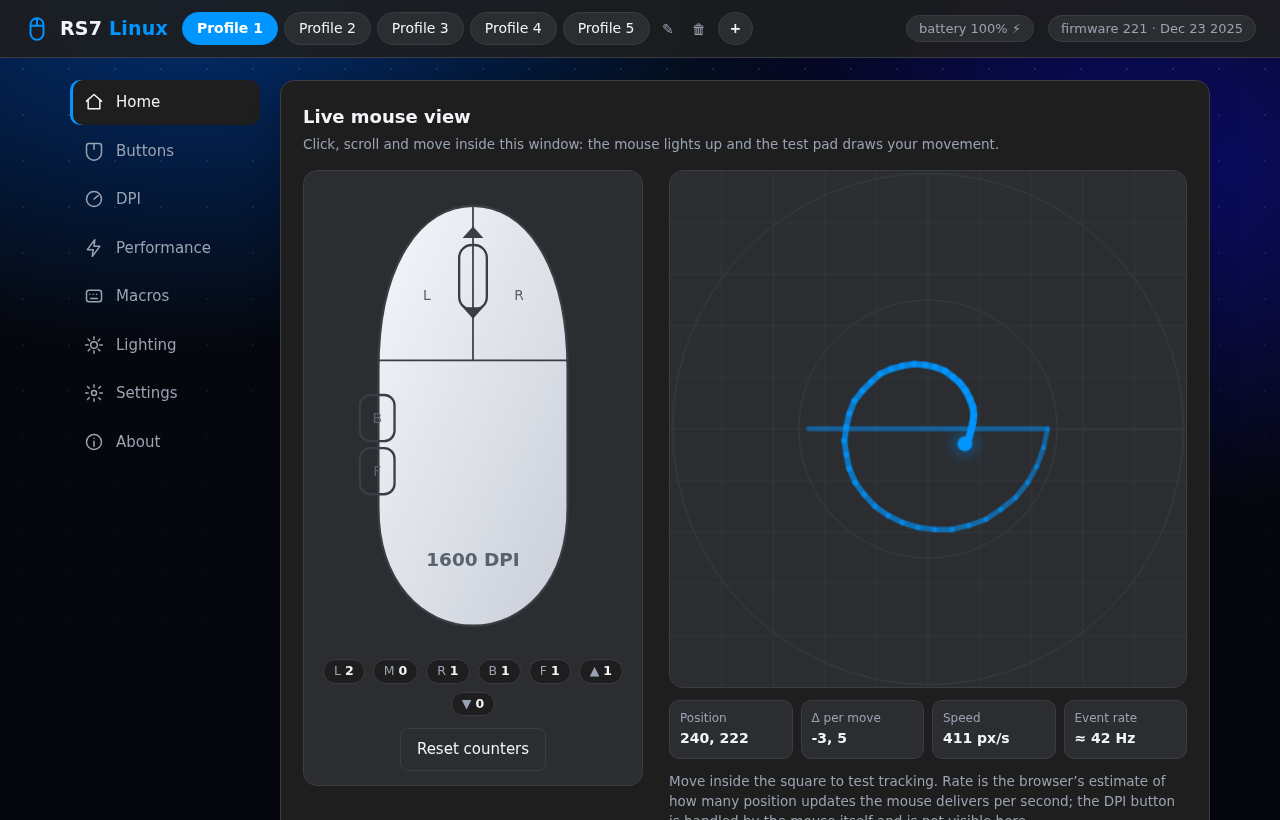
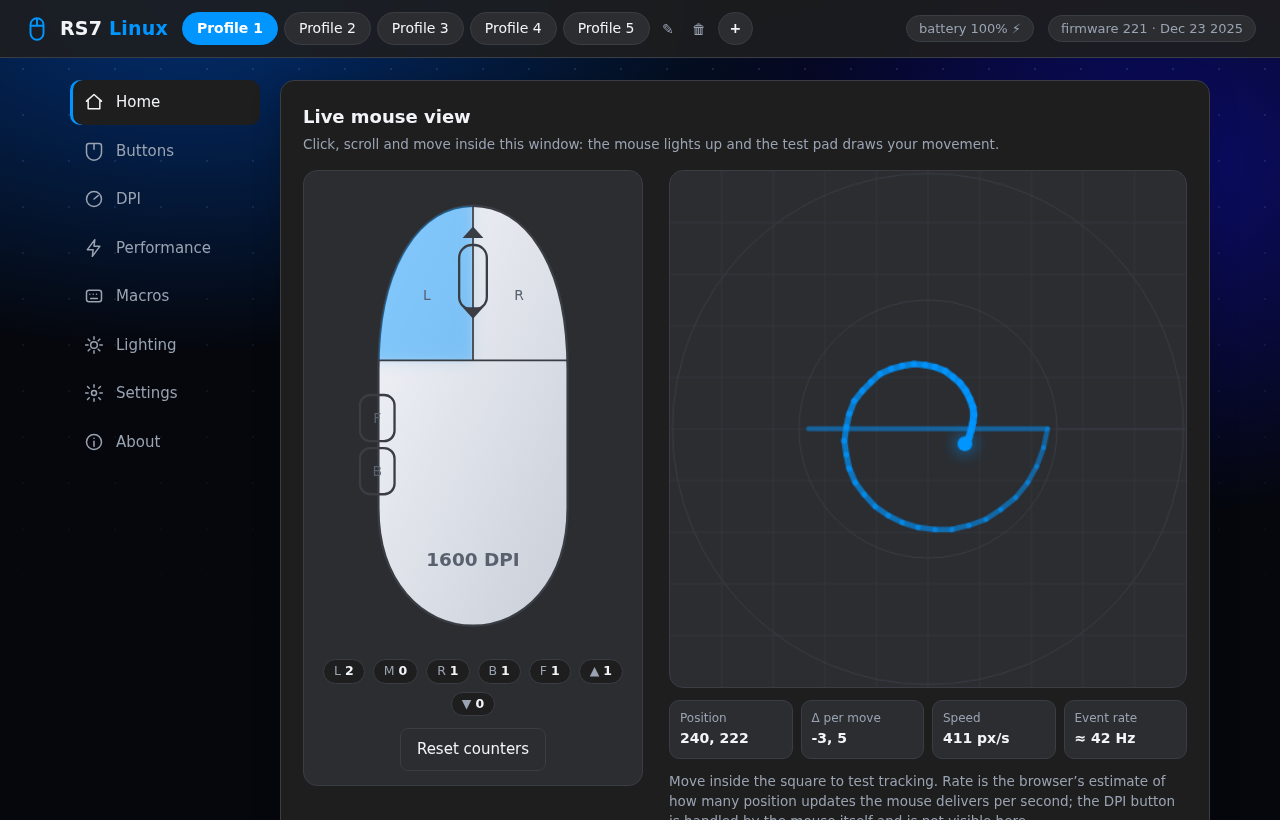
chore: release 0.4.1

Changed region(s): [[0.2812, 0.2439, 0.375, 0.4573]]

diff --git a/rs7/__init__.py b/rs7/__init__.py
@@ -1,2 +1,2 @@
 """rs7-linux: unofficial Linux configurator for the Smailwolf RS7 mouse (YJX chip)."""
-__version__ = "0.4.0"
+__version__ = "0.4.1"

diff --git a/CHANGELOG.md b/CHANGELOG.md
@@ -1,5 +1,8 @@
 # Changelog
 
+## 0.4.1
+- Fix: Back/Forward side buttons were drawn swapped in the mouse view (Forward is the front one, Back the rear one) on Home and Buttons tabs.
+
 ## 0.4.0
 - New Home screen: live mouse view that lights the clicked button / wheel direction, click counters, and a movement test pad (trail, position, speed, estimated event rate, current DPI). Browser Back/Forward mouse buttons are swallowed while on Home.
 
